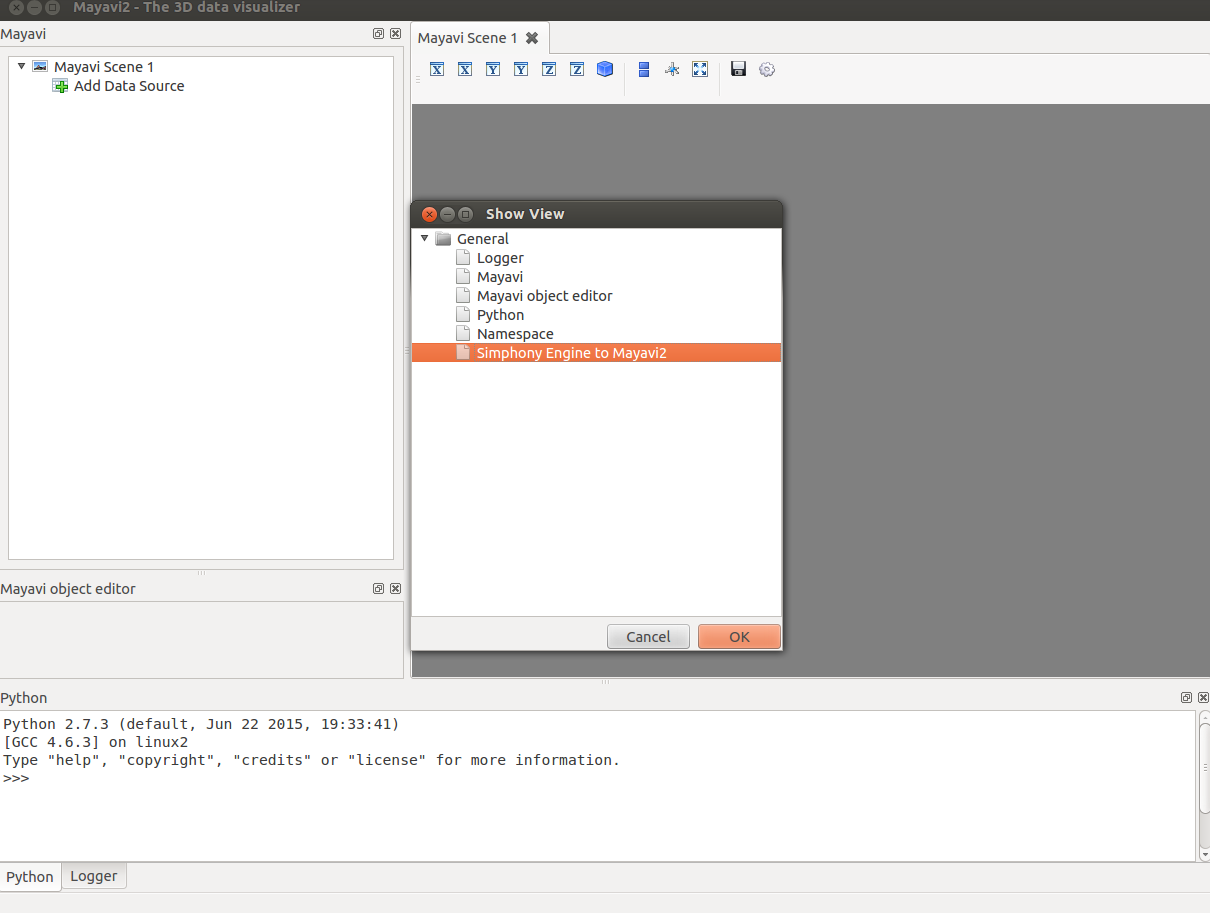
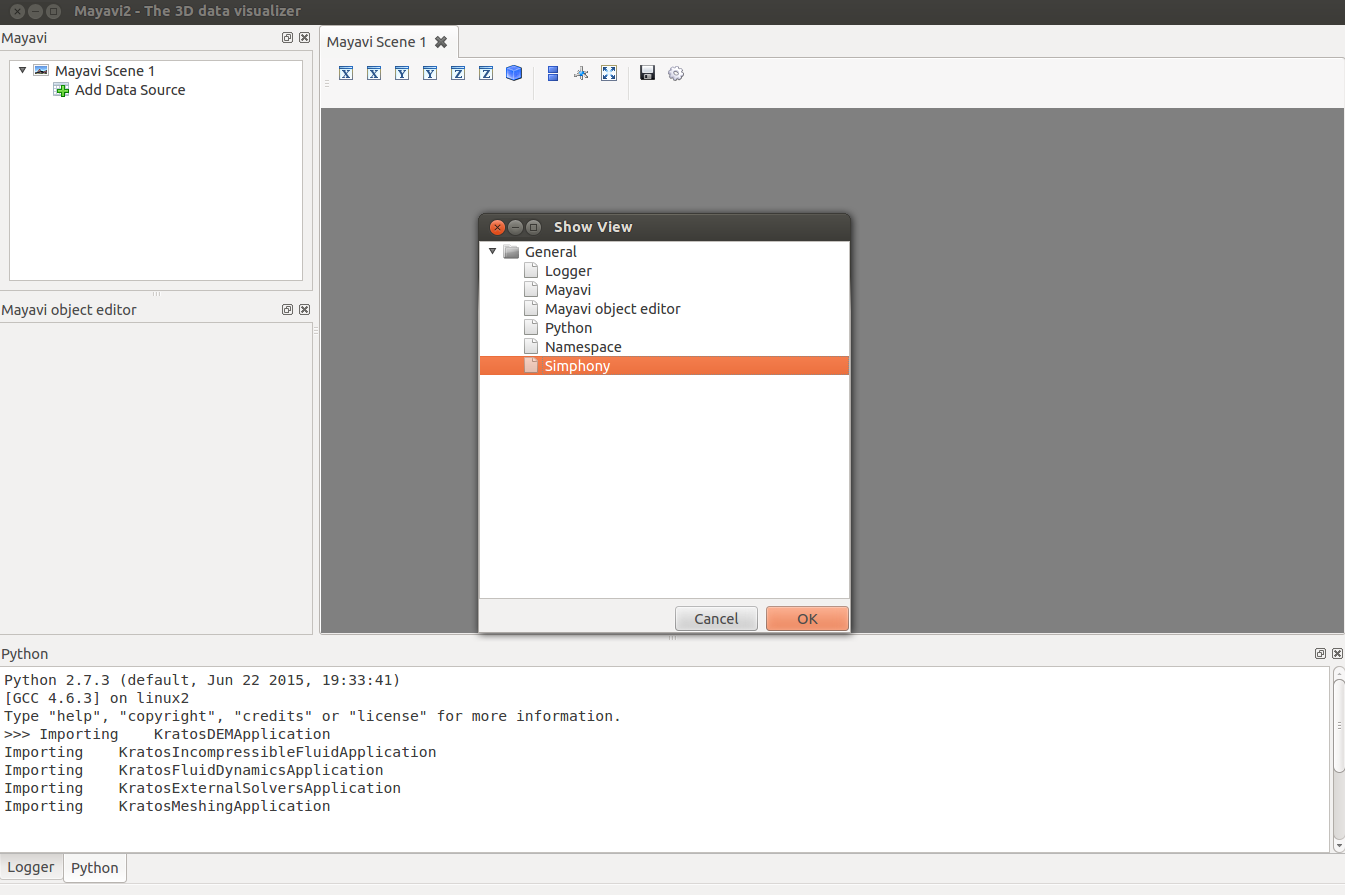
updated doc, added a section on EngineManager

diff --git a/examples/engine_manager_standalone_ui.py b/examples/engine_manager_standalone_ui.py
@@ -1,11 +1,18 @@
+from simphony_mayavi.sources.tests.testing_utils import DummyEngine
 from simphony.visualisation import mayavi_tools
-from simphony_mayavi.sources.tests import testing_utils
-
-# Dummy modeling engine for testing
-engine = testing_utils.DummyEngine()
 
 # GUI for Interacting with the engine and mayavi
-# "test" is used as a label for representing the engine in the GUI
-gui = mayavi_tools.EngineManagerStandaloneUI("test", engine)
+gui = mayavi_tools.EngineManagerStandaloneUI()
 
 gui.show_config()
+
+# you can add an engine from the python shell
+engine_wrapper = DummyEngine()
+
+# "test" is used as a label for representing the engine in the GUI
+gui.add_engine("test", engine_wrapper)
+
+# you can remove the engine from the GUI
+# Notice that this may not destroy the instance if the instance
+# is referenced elsewhere (i.e. ``engine_wrapper``)
+gui.remove_engine("test")

diff --git a/examples/engine_manager_standalone_example.py b/examples/engine_manager_standalone_example.py
@@ -1,10 +1,10 @@
 from simphony.visualisation import mayavi_tools
-from simphony_mayavi.sources.tests import testing_utils
+from simphony_mayavi.sources.tests.testing_utils import DummyEngine
 
 
-# Dummy Modeling Engine
+# Dummy Modeling Engine for demostration
 # The dummy engine has datasets "particles", "lattice", "mesh"
-modeling_engine = testing_utils.DummyEngine()
+modeling_engine = DummyEngine()
 
 manager = mayavi_tools.EngineManagerStandalone(modeling_engine)
 

diff --git a/examples/engine_manager_standalone_ui_add_engine.py b/examples/engine_manager_standalone_ui_add_engine.py
@@ -5,7 +5,7 @@ from simphony_mayavi.sources.tests import testing_utils
 engine1 = testing_utils.DummyEngine()
 engine2 = testing_utils.DummyEngine()
 
-# GUI for Interacting with the engine and mayavi
+# GUI can be initialised with an engine defined
 # "test" is used as a label for representing the engine in the GUI
 gui = mayavi_tools.EngineManagerStandaloneUI("test", engine1)
 

diff --git a/doc/source/engine.rst b/doc/source/engine.rst
@@ -1,0 +1,92 @@
+Interacting with Simphony Engine
+================================
+
+
+Non-GUI approach from Python Shell
+----------------------------------
+
+The :class:`~simphony_mayavi.plugins.engine_manager_standalone.EngineManagerStandalone`
+is available for the user to select and visualise datasets from a Simphony Modeling
+Engine via the Python shell.  It also allows the user to run the engine (locally) and
+animate the visualisation after each run.
+
+.. rubric:: Example (EngineManagerStandalone)
+
+.. literalinclude:: ../../examples/engine_manager_standalone_example.py
+
+.. figure:: _images/engine_manager_standalone_animate.png
+	    
+One can visualise multiple datasets in different scenes and animate all
+of them as the engine runs.
+
+.. literalinclude:: ../../examples/engine_manager_standalone_scenes_example.py
+
+.. figure:: _images/engine_manager_standalone_scenes_animate.png
+	    
+
+GUI approach from Python Shell
+------------------------------
+
+:class:`~simphony_mayavi.plugins.engine_manager_standalone_ui.EngineManagerStandaloneUI`
+provides a user-friendly and interactive approach to manage multiple engines, visualise
+datasets from a particular engine, locally run an engine and animate the results.
+
+.. rubric:: Example (Interactive: EngineManagerStandaloneUI)
+	    
+.. literalinclude:: ../../examples/engine_manager_standalone_ui.py
+
+.. figure:: _images/engine_manager_standalone_ui.png
+
+   Panel for adding more engine wrappers.
+
+.. figure:: _images/engine_manager_standalone_ui_add_source.png
+
+   Use `EngineManagerStandaloneUI` to add datasets to Mayavi.
+   
+.. figure:: _images/engine_manager_standalone_ui_run_and_animate.png
+
+   Use `EngineManagerStandaloneUI` to run the engine and animate the results.
+
+   Multiple engines can be added to or removed from (
+   :func:`~simphony_mayavi.plugins.engine_manager.add_engine` and
+   :func:`~simphony_mayavi.plugins.engine_manager.remove_engine`) the
+   manager.  User can also add an engine by loading a python
+   script file.  Only local variables are loaded.
+   
+.. literalinclude:: ../../examples/engine_manager_standalone_ui_add_engine.py
+
+.. figure:: _images/engine_manager_standalone_ui_add_engine.png
+
+
+Interact with Simphony Engine within Mayavi2
+--------------------------------------------
+
+A Mayavi2 plugin similar to the
+:class:`~simphony_mayavi.plugins.engine_manager_standalone_ui.EngineManagerStandaloneUI`
+is also provided. In order to use it, one needs to first activate the plugin in
+``Preferences``, following the instructions in :ref:`mayavi-plugin-setup-label`.
+After that, **restart** Mayavi2.  Then the EngineManager panel can be added by selecting
+``View`` --> ``Other...`` --> ``Simphony``.
+
+.. figure:: _images/engine_manager_mayavi2_setup.png
+
+   Add the Simphony Engine Manager panel
+
+The Engine Manager is binded to the Python shell within Mayavi2 as
+``simphony_panel``.
+
+.. figure:: _images/engine_manager_mayavi2.png
+
+Again, simphony modeling engines can be added or
+removed from the panel using :func:`~simphony_mayavi.plugins.engine_manager.add_engine`
+and :func:`~simphony_mayavi.plugins.engine_manager.remove_engine`.
+	    
+.. rubric:: Inside the Mayavi2 Python shell
+
+.. code-block:: python
+
+   from simphony_mayavi.sources.tests import testing_utils
+   engine_wrapper = testing_utils.DummyEngine()
+   simphony_panel.add_engine("Test", engine_wrapper)
+
+

diff --git a/doc/source/simphony.rst b/doc/source/simphony.rst
@@ -92,49 +92,3 @@ supported formats.
 
 .. _mayavi operations: http://docs.enthought.com/mayavi/mayavi/mlab_changing_object_looks.html?highlight=toolbar#changing-object-properties-interactively
 
-.. _engine-manager-standalone-label:
-
-Interacting with Simphony Engine
---------------------------------
-
-The :class:`~simphony_mayavi.plugins.engine_manager_standalone.EngineManagerStandalone`
-and :class:`~simphony_mayavi.plugins.engine_manager_standalone_ui.EngineManagerStandaloneUI`
-are available for the user to select and visualise datasets from a
-Simphony Modeling Engine via the Python shell (EngineManagerStandalone)
-or via an interactive GUI (EngineManagerStandaloneUI).
-
-.. rubric:: Example (Script-able: EngineManagerStandalone)
-
-.. literalinclude:: ../../examples/engine_manager_standalone_example.py
-
-.. figure:: _images/engine_manager_standalone_animate.png
-	    
-One can visualise multiple datasets in different scenes and animate all
-of them as the engine runs.
-
-.. literalinclude:: ../../examples/engine_manager_standalone_scenes_example.py
-
-.. figure:: _images/engine_manager_standalone_scenes_animate.png
-
-.. rubric:: Example (Interactive: EngineManagerStandaloneUI)
-	    
-.. literalinclude:: ../../examples/engine_manager_standalone_ui.py
-
-.. figure:: _images/engine_manager_standalone_ui.png
-
-   Use `EngineManagerStandaloneUI` to add datasets to Mayavi.
-   
-.. figure:: _images/engine_manager_standalone_ui_2.png
-
-   Use `EngineManagerStandaloneUI` to run the engine and animate the results.
-
-   Multiple engines can be added to the manager and be selected for
-   visualisation and animations.
-   
-.. literalinclude:: ../../examples/engine_manager_standalone_ui_add_engine.py
-
-.. figure:: _images/engine_manager_standalone_ui_add_engine.png
-
-
- 
-   

diff --git a/doc/source/mayavi2.rst b/doc/source/mayavi2.rst
@@ -6,7 +6,9 @@ create mayavi ``Source`` instances from SimPhoNy CUDS containers and
 files. With the provided tools one can use the SimPhoNy libraries to
 work inside the Mayavi2 application, as it is demonstrated in the
 examples.
- 
+
+.. _mayavi-plugin-setup-label:
+
 Open CUDS Files in Mayavi2
 --------------------------
 
@@ -68,35 +70,3 @@ View CUDS in Mayavi2
 
    Use the provided example to create a CUDS Particles and visualise
    directly in Mayavi2.
-
-
-Interact with Simphony Engine within Mayavi2
---------------------------------------------
-
-A Mayavi2 plugin similar to the
-:class:`~simphony_mayavi.plugins.engine_manager_standalone_ui.EngineManagerStandaloneUI`
-described in :ref:`engine-manager-standalone-label` is provided. In order to use it,
-one needs to first activate the plugin in ``Preferences``, following the instructions
-in `Open CUDS Files in Mayavi2`_. **Restart** Mayavi2. Then the EngineManager panel
-can be added by selecting
-``View`` --> ``Other...`` --> ``Simphony Engine to Mayavi2``.
-
-.. figure:: _images/engine_manager_mayavi2_setup.png
-
-   Add the Simphony Engine Manager panel
-
-The Engine Manager is binded to the Python shell within Mayavi2 as
-``simphony_panel``.  Simphony modeling engines can be added or
-removed from the panel using :func:`~simphony_mayavi.plugins.engine_manager.add_engine`
-and :func:`~simphony_mayavi.plugins.engine_manager.remove_engine`.
-
-.. rubric:: Inside the Mayavi2 Python shell
-
-.. code-block:: python
-
-   from simphony_mayavi.sources.tests import testing_utils
-   engine_wrapper = testing_utils.DummyEngine()
-   simphony_panel.add_engine("Test", engine_wrapper)
-
-.. figure:: _images/engine_manager_mayavi2.png
-	   

diff --git a/doc/source/index.rst b/doc/source/index.rst
@@ -4,11 +4,12 @@ User Manual
 ===========
 
 .. toctree::
-   :maxdepth: 1
+   :maxdepth: 2
 
-   SimPhoNy <simphony>
+   SimPhoNy<simphony>
    Mayavi2 <mayavi2>
-
+   Interacting with Simphony Engine <engine>
+   
 API Reference
 =============
 
